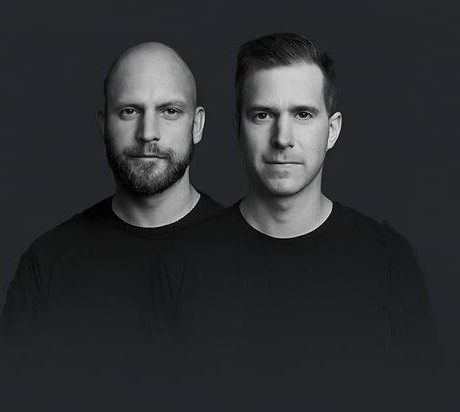
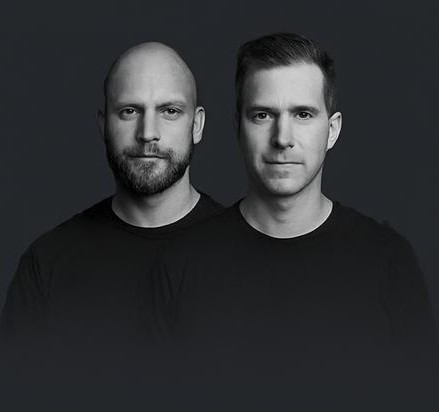
structure

diff --git a/style.css b/style.css
@@ -73,7 +73,7 @@ h3 { font-size: clamp(1.1rem, 2.5vw, 1.4rem); }
 p  { max-width: 68ch; }
 
 .section-label {
-  font-size: 0.75rem;
+  font-size: 0.9rem;
   font-weight: 700;
   letter-spacing: 0.12em;
   text-transform: uppercase;
@@ -246,6 +246,7 @@ section { padding-block: 5rem; }
 }
 [data-theme="light"] .nav-mobile {
   background-color: rgba(236, 232, 225, 0.75);
+  background-blend-mode: luminosity, normal, normal;
 }
 .nav-mobile.open { display: flex; }
 .nav-mobile a {
@@ -622,8 +623,8 @@ a.coach-photo:hover {
   line-height: 1;
 }
 .ueber-uns-lasche:hover {
-  background: #e6b728;
-  padding-bottom: 1rem;
+  transform: translateY(4px);
+  box-shadow: 0 -4px 0 0 var(--gold);
 }
 .lasche-arrow {
   display: inline-block;
@@ -1022,6 +1023,18 @@ img:not([class*="logo"]):not(.nav-logo img) {
 @media (max-width: 900px) {
   .hero-inner        { grid-template-columns: 1fr; }
   .hero-image-wrap   { display: none; }
+  .hero {
+    background-image:
+      linear-gradient(to bottom, rgba(28,27,26,0.82) 0%, rgba(28,27,26,0.55) 100%),
+      url('images/johanmarkplaceholder.jpeg');
+    background-size: cover;
+    background-position: center top;
+  }
+  [data-theme="light"] .hero {
+    background-image:
+      linear-gradient(to bottom, rgba(244,241,236,0.85) 0%, rgba(244,241,236,0.6) 100%),
+      url('images/johanmarkplaceholder.jpeg');
+  }
   .coaches-grid      { grid-template-columns: 1fr; }
   .footer-grid       { grid-template-columns: 1fr 1fr; }
   .codep-grid        { grid-template-columns: repeat(2, 1fr); }
@@ -1081,11 +1094,11 @@ img:not([class*="logo"]):not(.nav-logo img) {
   max-height: 300px;
   overflow-y: auto;
   scrollbar-width: thin;
-  scrollbar-color: var(--border) transparent;
+  scrollbar-color: rgba(212, 160, 23, 0.45) transparent;
 }
 .tc-card::-webkit-scrollbar { width: 5px; }
 .tc-card::-webkit-scrollbar-track { background: transparent; }
-.tc-card::-webkit-scrollbar-thumb { background: var(--border); border-radius: 99px; }
+.tc-card::-webkit-scrollbar-thumb { background: rgba(212, 160, 23, 0.45); border-radius: 99px; }
 
 .tc-source {
   display: inline-block;

diff --git a/index.html b/index.html
@@ -25,6 +25,7 @@
       </a>
 
       <ul class="nav-links" role="list">
+        <li><a href="#">Start</a></li>
         <li><a href="#problem">Das Problem</a></li>
         <li><a href="#loesung">Was du bekommst</a></li>
         <li><a href="#weg">Der Weg</a></li>
@@ -41,7 +42,8 @@
       </div>
     </nav>
 
-    <nav class="nav-mobile" id="nav-mobile" aria-label="Mobiles Menü">
+    <nav class="nav-mobile" id="nav-mobile" aria-label="Mobiles Menü" style="background-image: linear-gradient(to bottom, rgba(30,29,28,0.78) 0%, rgba(30,29,28,0.78) 100%), url('images/johanme.jpg'), url('images/markplaceholder.jpeg'); background-size: cover, 55% auto, 55% auto; background-position: center, 15% top, 85% top; background-repeat: no-repeat;">
+      <a href="#">Start</a>
       <a href="#problem">Das Problem</a>
       <a href="#loesung">Was du bekommst</a>
       <a href="#weg">Der Weg</a>